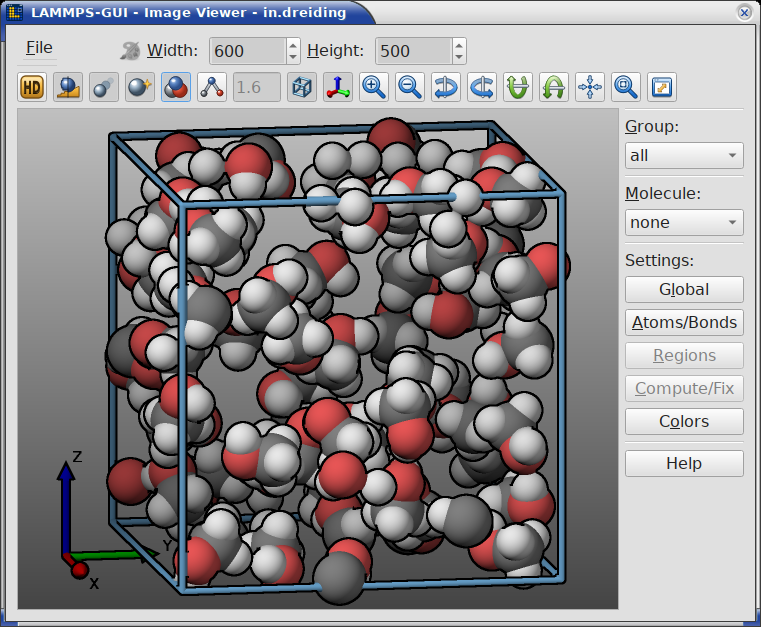
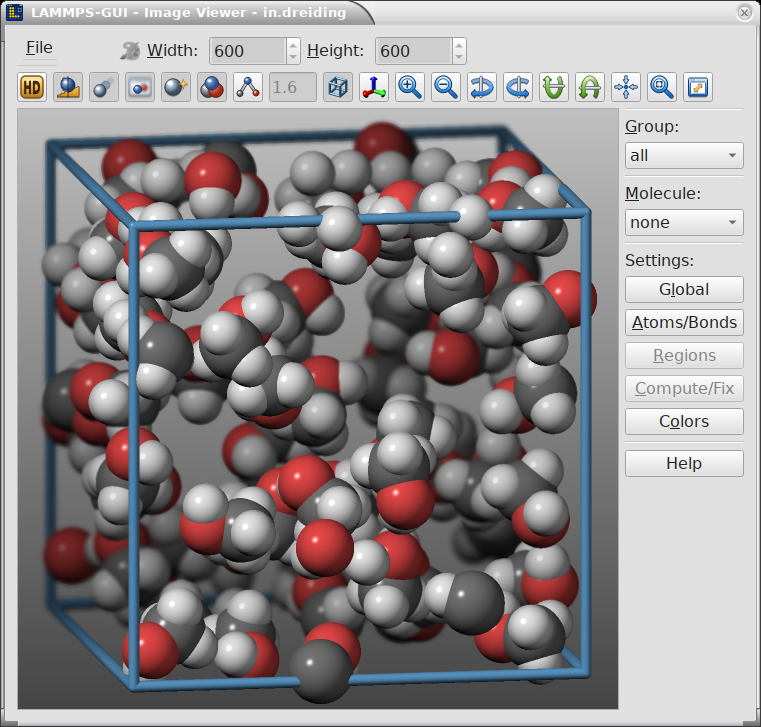
add support for new defocus keyword

diff --git a/src/imageviewer.cpp b/src/imageviewer.cpp
@@ -444,6 +444,10 @@ ImageViewer::ImageViewer(const QString &fileName, LammpsWrapper *_lammps, Lammps
     dodepth->setCheckable(true);
     dodepth->setToolTip("Toggle depth cueing");
     dodepth->setObjectName("depthcue");
+    auto *dodefocus = new QPushButton(QIcon(":/icons/defocus.svg"), "");
+    dodefocus->setCheckable(true);
+    dodefocus->setToolTip("Toggle defocusing of distant objects");
+    dodefocus->setObjectName("defocus");
     auto *doshiny = new QPushButton(QIcon(":/icons/image-shiny.svg"), "");
     doshiny->setCheckable(true);
     doshiny->setToolTip("Toggle shininess");
@@ -502,8 +506,8 @@ ImageViewer::ImageViewer(const QString &fileName, LammpsWrapper *_lammps, Lammps
 
     // square toolbar buttons with a snug, uniform icon (shared policy)
     styleToolButtons(buttonhint,
-                     {dossao, doanti, dodepth, doshiny, dovdw, dobond, dobox, doaxes, zoomin,
-                      zoomout, rotleft, rotright, rotup, rotdown, recenter, reset, fitwin});
+                     {dossao, doanti, dodepth, dodefocus, doshiny, dovdw, dobond, dobox, doaxes,
+                      zoomin, zoomout, rotleft, rotright, rotup, rotdown, recenter, reset, fitwin});
 
     // match the first-row controls (menu bar and size fields) to the toolbar
     // button height so both rows line up and the layout looks balanced
@@ -580,6 +584,7 @@ ImageViewer::ImageViewer(const QString &fileName, LammpsWrapper *_lammps, Lammps
     buttonLayout->addWidget(dossao);
     buttonLayout->addWidget(doanti);
     buttonLayout->addWidget(dodepth);
+    buttonLayout->addWidget(dodefocus);
     buttonLayout->addWidget(doshiny);
     buttonLayout->addWidget(dovdw);
     buttonLayout->addWidget(dobond);
@@ -621,6 +626,7 @@ ImageViewer::ImageViewer(const QString &fileName, LammpsWrapper *_lammps, Lammps
     connect(dossao, &QPushButton::released, this, &ImageViewer::toggleSsao);
     connect(doanti, &QPushButton::released, this, &ImageViewer::toggleAnti);
     connect(dodepth, &QPushButton::released, this, &ImageViewer::toggleDepthcue);
+    connect(dodefocus, &QPushButton::released, this, &ImageViewer::toggleDefocus);
     connect(doshiny, &QPushButton::released, this, &ImageViewer::toggleShiny);
     connect(dovdw, &QPushButton::released, this, &ImageViewer::toggleVdw);
     connect(dobond, &QPushButton::released, this, &ImageViewer::toggleBond);
@@ -670,6 +676,7 @@ ImageViewer::ImageViewer(const QString &fileName, LammpsWrapper *_lammps, Lammps
     dossao->setChecked(usessao);
     doanti->setChecked(antialias);
     dodepth->setChecked(usedepthcue);
+    dodefocus->setChecked(usedefocus);
 
     scrollArea->setVisible(true);
     updateActions();
@@ -743,6 +750,9 @@ void ImageViewer::readImageSettings()
     depthcuefactor = 0.5;
     depthcuecolor  = "auto";
     depthcuestart  = "auto";
+    usedefocus     = false;
+    defocusfactor  = 0.5;
+    defocusstart   = "auto";
     useoutline     = false;
     outlinewidth   = 2;
     outlinecolor   = "black";
@@ -818,6 +828,8 @@ void ImageViewer::resetView()
     if (button) button->setChecked(antialias);
     button = findChild<QPushButton *>("depthcue");
     if (button) button->setChecked(usedepthcue);
+    button = findChild<QPushButton *>("defocus");
+    if (button) button->setChecked(usedefocus);
     button = findChild<QPushButton *>("shiny");
     if (button) button->setChecked(shinyfactor > SHINY_CUT);
     button = findChild<QPushButton *>("vdw");
@@ -895,6 +907,15 @@ void ImageViewer::toggleDepthcue()
     if (!button) return;
     usedepthcue = !usedepthcue;
     button->setChecked(usedepthcue);
+    createImage();
+}
+
+void ImageViewer::toggleDefocus()
+{
+    auto *button = qobject_cast<QPushButton *>(sender());
+    if (!button) return;
+    usedefocus = !usedefocus;
+    button->setChecked(usedefocus);
     createImage();
 }
 
@@ -1495,6 +1516,9 @@ DumpImageParams ImageViewer::gatherDumpImageParams(const QString &dumpfilename)
     p.depthcuefactor = depthcuefactor;
     p.depthcuecolor  = depthcuecolor;
     p.depthcuestart  = depthcuestart;
+    p.usedefocus     = usedefocus;
+    p.defocusfactor  = defocusfactor;
+    p.defocusstart   = defocusstart;
     p.useoutline     = useoutline;
     p.outlinewidth   = outlinewidth;
     p.outlinecolor   = outlinecolor;

diff --git a/src/imageviewersettings.cpp b/src/imageviewersettings.cpp
@@ -249,10 +249,40 @@ void ImageViewer::globalSettings()
                          "(0.0 = near side, 1.0 = far side), or \"auto\" to start at the\n"
                          "nearest rendered object");
     layout->addWidget(cuestart, idx++, n++, 1, 1);
-    layout->addWidget(new QHline, idx++, 0, 1, MAXCOLS);
     connect(cuebutton, &QCheckBox::toggled, cueval, &QDoubleSpinBox::setEnabled);
     connect(cuebutton, &QCheckBox::toggled, cuecolor, &QLineEdit::setEnabled);
     connect(cuebutton, &QCheckBox::toggled, cuestart, &QLineEdit::setEnabled);
+
+    n = 0;
+
+    auto *focusbutton = new QCheckBox("Defocus ", this);
+    focusbutton->setChecked(usedefocus);
+    focusbutton->setToolTip("Blur distant objects as if the camera were focused on the front");
+    layout->addWidget(focusbutton, idx, n++, 1, 1);
+    layout->addWidget(new QLabel("Intensity: "), idx, n++, 1, 1, Qt::AlignVCenter | Qt::AlignRight);
+    auto *focusval = new QDoubleSpinBox;
+    focusval->setRange(0.0, 1.0);
+    focusval->setSingleStep(0.05);
+    focusval->setValue(defocusfactor);
+    focusval->setMaximumWidth(fwidth);
+    focusval->setEnabled(usedefocus);
+    focusval->setToolTip("Strength of the blur; at 1.0 the most distant objects are\n"
+                         "blurred over a radius of 1 percent of the image height");
+    layout->addWidget(focusval, idx, n++, 1, 1);
+    // the defocus keyword has no color argument, so this column stays empty
+    n += 2;
+    layout->addWidget(new QLabel("Start: "), idx, n++, 1, 1, Qt::AlignVCenter | Qt::AlignRight);
+    auto *focusstart = new QLineEdit(defocusstart);
+    focusstart->setValidator(cuestartvalidator);
+    focusstart->setMaximumWidth(fwidth);
+    focusstart->setEnabled(usedefocus);
+    focusstart->setToolTip("Box fraction along the view direction where the blurring starts\n"
+                           "(0.0 = near side, 1.0 = far side), or \"auto\" to start at the\n"
+                           "nearest rendered object");
+    layout->addWidget(focusstart, idx++, n++, 1, 1);
+    layout->addWidget(new QHline, idx++, 0, 1, MAXCOLS);
+    connect(focusbutton, &QCheckBox::toggled, focusval, &QDoubleSpinBox::setEnabled);
+    connect(focusbutton, &QCheckBox::toggled, focusstart, &QLineEdit::setEnabled);
 
     n = 0;
 
@@ -513,6 +543,12 @@ void ImageViewer::globalSettings()
     if (cuestart->hasAcceptableInput()) depthcuestart = cuestart->text();
     button = findChild<QPushButton *>("depthcue");
     if (button) button->setChecked(usedepthcue);
+
+    usedefocus    = focusbutton->isChecked();
+    defocusfactor = focusval->value();
+    if (focusstart->hasAcceptableInput()) defocusstart = focusstart->text();
+    button = findChild<QPushButton *>("defocus");
+    if (button) button->setChecked(usedefocus);
 
     useoutline   = outlinebutton->isChecked();
     outlinewidth = olwidth->value();

diff --git a/test/test_dumpimage.cpp b/test/test_dumpimage.cpp
@@ -84,6 +84,9 @@ DumpImageParams makeParams()
     p.depthcuefactor = 0.5;
     p.depthcuecolor  = "auto";
     p.depthcuestart  = "auto";
+    p.usedefocus     = false;
+    p.defocusfactor  = 0.5;
+    p.defocusstart   = "auto";
     p.useoutline     = false;
     p.outlinewidth   = 2;
     p.outlinecolor   = "black";
@@ -382,6 +385,7 @@ TEST(DumpImageCommand, DepthCueOutlineSpecular)
     auto p      = makeParams();
     QString cmd = buildCmd(p);
     EXPECT_FALSE(cmd.contains(" depthcue ")) << cmd.toStdString();
+    EXPECT_FALSE(cmd.contains(" defocus "));
     EXPECT_FALSE(cmd.contains(" outline "));
     EXPECT_FALSE(cmd.contains(" specular "));
     EXPECT_FALSE(cmd.contains(" ssaosamples "));
@@ -396,6 +400,16 @@ TEST(DumpImageCommand, DepthCueOutlineSpecular)
     p.depthcuestart = "0.25";
     cmd             = buildCmd(p);
     EXPECT_TRUE(cmd.contains(" depthcue yes 0.7 white 0.25")) << cmd.toStdString();
+
+    // defocus takes no color argument, only the strength and the start position
+    p.usedefocus    = true;
+    p.defocusfactor = 0.4;
+    cmd             = buildCmd(p);
+    EXPECT_TRUE(cmd.contains(" defocus yes 0.4 auto")) << cmd.toStdString();
+
+    p.defocusstart = "0.5";
+    cmd            = buildCmd(p);
+    EXPECT_TRUE(cmd.contains(" defocus yes 0.4 0.5")) << cmd.toStdString();
 
     p.useoutline   = true;
     p.outlinewidth = 3;
@@ -489,6 +503,7 @@ TEST(DumpImageCommand, AllDefaultsPruned)
     EXPECT_FALSE(cmd.contains(" btrans"));
     EXPECT_FALSE(cmd.contains(" lights"));
     EXPECT_FALSE(cmd.contains(" gamma"));
+    EXPECT_FALSE(cmd.contains(" defocus"));
     EXPECT_FALSE(cmd.contains(" subbox "));
     EXPECT_FALSE(cmd.contains(" axes "));
     EXPECT_FALSE(cmd.contains(" center "));

diff --git a/src/imageviewer.h b/src/imageviewer.h
@@ -87,6 +87,7 @@ private slots:
     void toggleSsao();        ///< Toggle screen-space ambient occlusion
     void toggleAnti();        ///< Toggle anti-aliasing
     void toggleDepthcue();    ///< Toggle depth cueing
+    void toggleDefocus();     ///< Toggle defocusing of distant objects
     void toggleShiny();       ///< Toggle shiny/specular rendering
     void toggleVdw();         ///< Toggle Van der Waals radii
     void toggleBond();        ///< Toggle bond display
@@ -243,6 +244,8 @@ private:
     double depthcuefactor;                       ///< Depth cueing strength
     QString depthcuecolor;                       ///< Depth cueing fog color or "auto"
     QString depthcuestart;                       ///< Depth cueing start fraction or "auto"
+    double defocusfactor;                        ///< Defocus blur strength
+    QString defocusstart;                        ///< Defocus start fraction or "auto"
     int outlinewidth;                            ///< Outline width in pixels
     QString outlinecolor;                        ///< Outline color
     QString specular;                            ///< Specular preset or "auto"
@@ -284,6 +287,7 @@ private:
     bool antialias;                              ///< Anti-aliasing enabled flag
     bool usessao;                                ///< SSAO enabled flag
     bool usedepthcue;                            ///< Depth cueing enabled flag
+    bool usedefocus;                             ///< Defocus enabled flag
     bool useoutline;                             ///< Outline drawing enabled flag
     bool showatoms;                              ///< Show atoms
     bool showbonds;                              ///< Show bonds if atom style supports it

diff --git a/test/test_highlighter.cpp b/test/test_highlighter.cpp
@@ -289,7 +289,7 @@ TEST_F(HighlighterTest, DumpImageColorsAndKeywords)
                        "dump_modify 2 backcolor white acolor 1 red\n"
                        "dump 3 all atom 100 f.dump\n"
                        "dump 4 all image 100 j.png type type depthcue yes 0.5 auto auto "
-                       "outline yes 2 dodgerblue"));
+                       "outline yes 2 dodgerblue defocus yes 0.4 auto"));
     Highlighter hl(&syntax, &doc);
     hl.rehighlight();
 
@@ -302,6 +302,7 @@ TEST_F(HighlighterTest, DumpImageColorsAndKeywords)
     EXPECT_EQ(formatAt(doc, 0, 46).foreground(), formatAt(doc2, 0, 6).foreground()); // box
     EXPECT_EQ(formatAt(doc, 3, 38).foreground(), formatAt(doc2, 0, 6).foreground()); // depthcue
     EXPECT_EQ(formatAt(doc, 3, 65).foreground(), formatAt(doc2, 0, 6).foreground()); // outline
+    EXPECT_EQ(formatAt(doc, 3, 90).foreground(), formatAt(doc2, 0, 6).foreground()); // defocus
     // the outline color value renders in its own color
     EXPECT_EQ(formatAt(doc, 3, 78).foreground().color(), QColor(QStringLiteral("dodgerblue")));
 

diff --git a/src/dumpimage.cpp b/src/dumpimage.cpp
@@ -256,11 +256,13 @@ DumpImageCommand buildDumpImageCommand(const DumpImageParams &p)
         d += QString(" view %1 %2").arg(hhrot).arg(p.vrot);
     }
     if (p.usessao) d += QString(" ssao yes %1 %2").arg(Cfg::SSAO_SEED).arg(p.ssaoval);
-    // depth cueing and outlines default to "no" in LAMMPS, so emit them only when on
+    // depth cueing, defocus, and outlines default to "no" in LAMMPS, so emit
+    // them only when on
     if (p.usedepthcue)
         d += QString(" depthcue yes %1 %2 %3")
                  .arg(p.depthcuefactor)
                  .arg(p.depthcuecolor, p.depthcuestart);
+    if (p.usedefocus) d += QString(" defocus yes %1 %2").arg(p.defocusfactor).arg(p.defocusstart);
     if (p.useoutline) d += QString(" outline yes %1 %2").arg(p.outlinewidth).arg(p.outlinecolor);
     if (p.showbox)
         d += QString(" box yes %1").arg(p.boxdiam);

diff --git a/src/dumpimage.h b/src/dumpimage.h
@@ -103,6 +103,9 @@ struct DumpImageParams {
     double depthcuefactor; ///< depth cueing strength (0.0 - 1.0)
     QString depthcuecolor; ///< fog color name, or "auto" = fade toward the background
     QString depthcuestart; ///< fading start as a box fraction along the view direction, or "auto"
+    bool usedefocus;       ///< enable defocusing of distant objects
+    double defocusfactor;  ///< defocus blur strength (0.0 - 1.0)
+    QString defocusstart;  ///< blurring start as a box fraction along the view direction, or "auto"
     bool useoutline;       ///< draw outlines at depth jumps
     int outlinewidth;      ///< outline width in pixels (1 - 16)
     QString outlinecolor;  ///< outline color name

diff --git a/src/lammpssyntax.cpp b/src/lammpssyntax.cpp
@@ -422,7 +422,7 @@ LammpsSyntax::LammpsSyntax()
                QStringLiteral("zoom"),    QStringLiteral("box"),       QStringLiteral("axes"),
                QStringLiteral("region"),  QStringLiteral("subbox"),    QStringLiteral("shiny"),
                QStringLiteral("fsaa"),    QStringLiteral("ssao"),      QStringLiteral("depthcue"),
-               QStringLiteral("outline")});
+               QStringLiteral("defocus"), QStringLiteral("outline")});
     specialWords = {QStringLiteral("INF"),  QStringLiteral("EDGE"), QStringLiteral("NULL"),
                     QStringLiteral("SELF"), QStringLiteral("if"),   QStringLiteral("then"),
                     QStringLiteral("else"), QStringLiteral("elif")};

diff --git a/doc/visualization.rst b/doc/visualization.rst
@@ -236,6 +236,11 @@ there are:
   fades distant objects toward a fog color for a stronger sense of
   depth.  The intensity, fog color, and start position are configured
   in the :ref:`Global image settings dialog <global_settings>`.
+- **Defocus** (toggle): Enable or disable defocusing, which blurs
+  distant objects as if the camera were focused on the front of the
+  scene, while leaving their colors untouched.  This can be combined
+  with depth cueing.  The intensity and start position are configured
+  in the :ref:`Global image settings dialog <global_settings>`.
 - **Shininess** (toggle): Switch between shiny and matte surface
   rendering of graphics objects like atoms and bonds.
 - **VDW style** (toggle): Switch between space-filling (Van der Waals)
@@ -331,10 +336,10 @@ in this dialog correspond to options of the LAMMPS `dump image and
 dump_modify commands <https://docs.lammps.org/dump_image.html>`_.
 
 .. |boxaxes| image:: JPG/lammps-gui-image-box-axes.png
-                     :width: 42%
+                     :width: 40%
 
 .. |global|  image:: JPG/lammps-gui-image-settings.png
-                     :width: 57%
+                     :width: 59%
 
 |boxaxes|  |global|
 
@@ -412,6 +417,26 @@ The dialog is organized into the following sections:
      simulation box along the view direction (0.0 = side nearest to
      the camera, 1.0 = far side), or "auto" (the default) to start at
      the nearest rendered object.
+
+**Defocus**
+   Controls defocusing, which blurs distant objects as if the camera
+   were focused on the front of the scene.  Like depth cueing this
+   draws the attention to the objects in front, but it leaves their
+   colors untouched, and the two effects may be combined.  There is no
+   color setting for this effect, so that field is left empty.
+
+   - **Defocus** (checkbox): Enable or disable defocusing.  This is
+     the same setting that the defocus toolbar button toggles.
+   - **Intensity**: The strength of the blur (range: 0.0 -- 1.0).  At
+     1.0 the most distant objects are blurred over a radius of 1
+     percent of the image height.  Blurring over much more than the
+     size of the rendered particles turns them into a uniform haze,
+     so moderate values usually give the best result.
+   - **Start**: Where the blurring starts, as a fraction of the
+     simulation box along the view direction (0.0 = side nearest to
+     the camera, 1.0 = far side), or "auto" (the default) to start at
+     the nearest rendered object, which keeps the front of the scene
+     sharp.
 
 **Quality**
    Controls rendering quality options.
